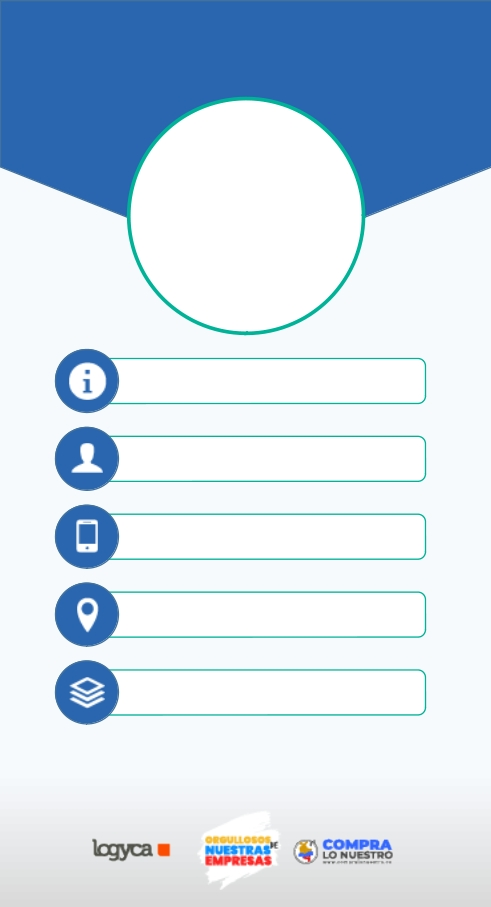
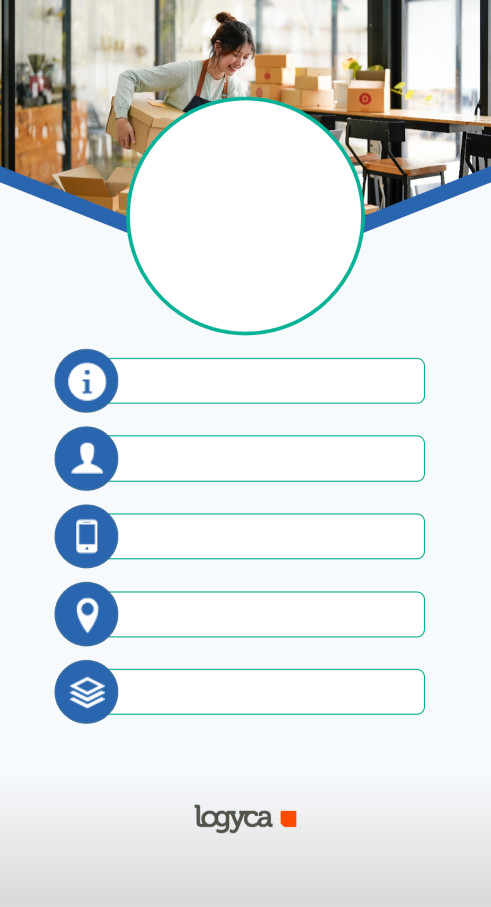
[FIX] Digital card now validates and assign GLN code if they didn't have one [FIX] GLN code was invisible for digital card benefit, solved [FIX] Digital Card wizard now requires three fields as mandatory: name, phone and email [IMP] Replaced the 'Other' template image on the digital card with a pret

diff --git a/rvc/models/benefit_application.py b/rvc/models/benefit_application.py
@@ -113,7 +113,7 @@ class BenefitApplication(models.Model):
 
     def action_confirm(self):
         for benefit_application in self:
-            if benefit_application.state in ('notified'):
+            if benefit_application.state in ('draft','notified'):
                 view_id = self.env.ref('rvc.rvc_template_email_confirm_wizard_form').id,
                 return {
                     'name':_("Enviar Aceptación"),
@@ -229,8 +229,6 @@ class BenefitApplication(models.Model):
                     'Por el momento solo puedes notificar DERECHOS DE IDENTIFICACIÓN y LOGYCA/COLABORA.'))
             elif not self._validate_qty_codes():
                 logging.warning("===> _validate_qty_codes no pasó la validación")
-            elif not self._validate_bought_products():
-                logging.warning("===> _validate_bought_products no pasó la validación")
 
     @api.model
     def create(self, vals):
@@ -290,7 +288,9 @@ class BenefitApplication(models.Model):
         gln_from_user_found = False
         qty_codes_found = 0
 
-        if self.partner_id and (self.product_id.benefit_type == 'codigos' or self.product_id.benefit_type == 'colabora'):
+        if self.partner_id and (self.product_id.benefit_type == 'codigos' or \
+            self.product_id.benefit_type == 'colabora' or \
+            self.product_id.benefit_type == 'tarjeta_digital'):
             
             if self.get_odoo_url() == 'https://logyca.odoo.com':
                 url = "https://app-asignacioncodigoslogyca-prod-v1.azurewebsites.net/codes/EmpresaGln/"
@@ -300,6 +300,8 @@ class BenefitApplication(models.Model):
             payload = {'nit': str(self.vat)}
 
             response = requests.get(url, data=json.dumps(payload))
+            logging.info(f"_Validate_gln() response: {response}")
+
             if response.status_code == 200:
                 result = response.json()
                 response.close()
